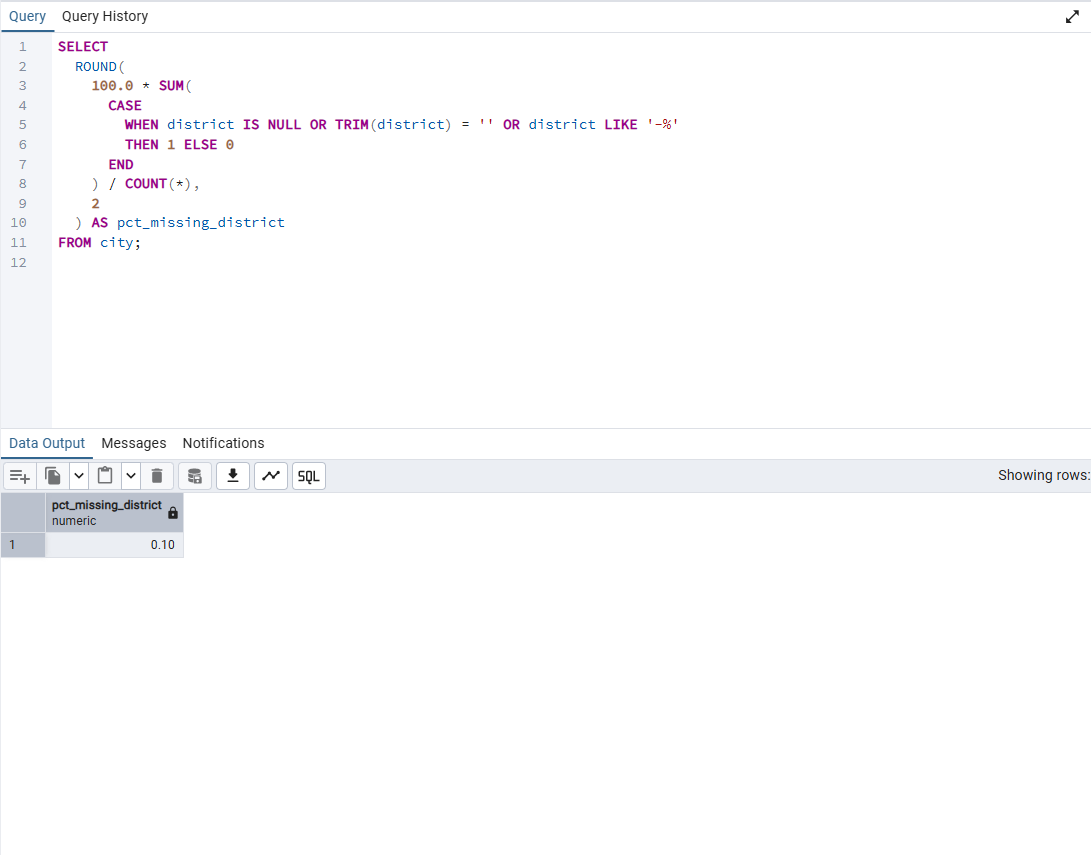
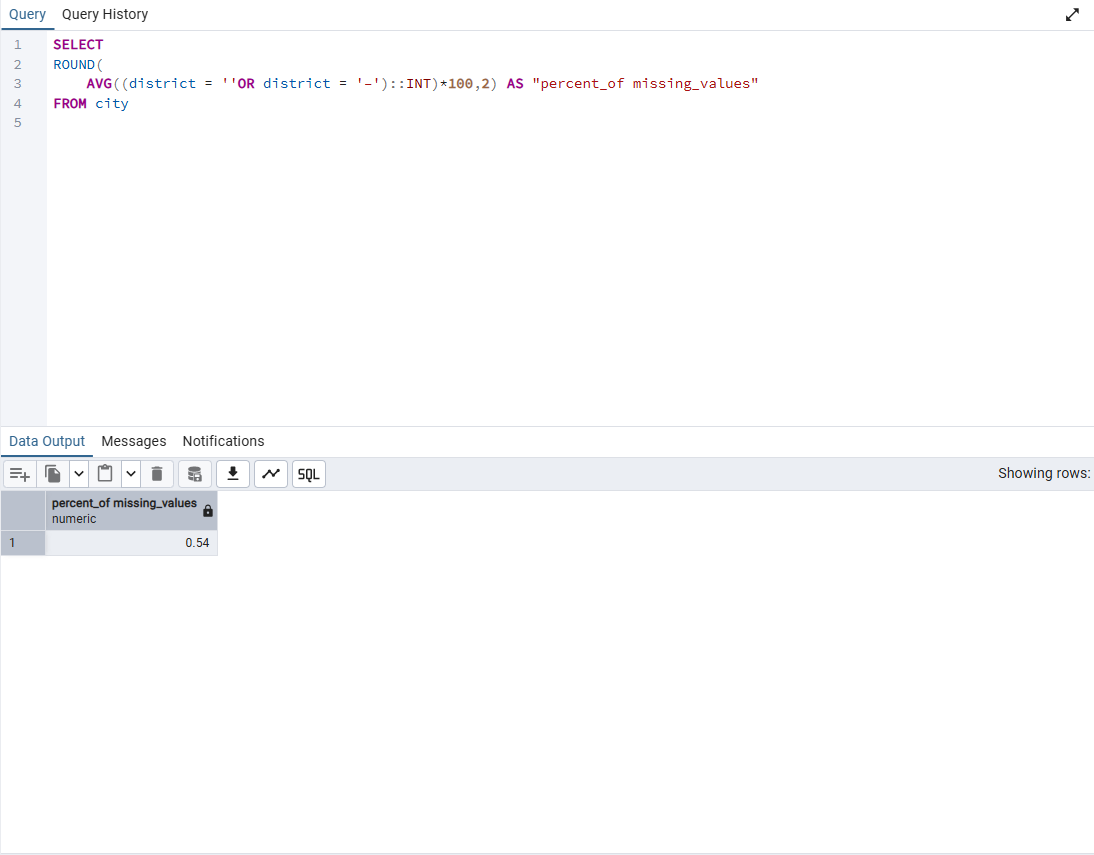
Updated Question 11.

diff --git a/exercises/exercise02.md b/exercises/exercise02.md
@@ -249,16 +249,9 @@ Using the World database, write the SQL command to **calculate the percentage of
 
 ```sql
 SELECT
-  ROUND(
-    100.0 * SUM(
-      CASE
-        WHEN district IS NULL OR TRIM(district) = '' OR district LIKE '-%'
-        THEN 1 ELSE 0
-      END
-    ) / COUNT(*),
-    2
-  ) AS pct_missing_district
-FROM city;
+ROUND(
+	AVG((district = ''OR district = '–')::INT)*100,2) AS "percent_of missing_values"
+FROM city
 ```
 
 ### Screenshot
